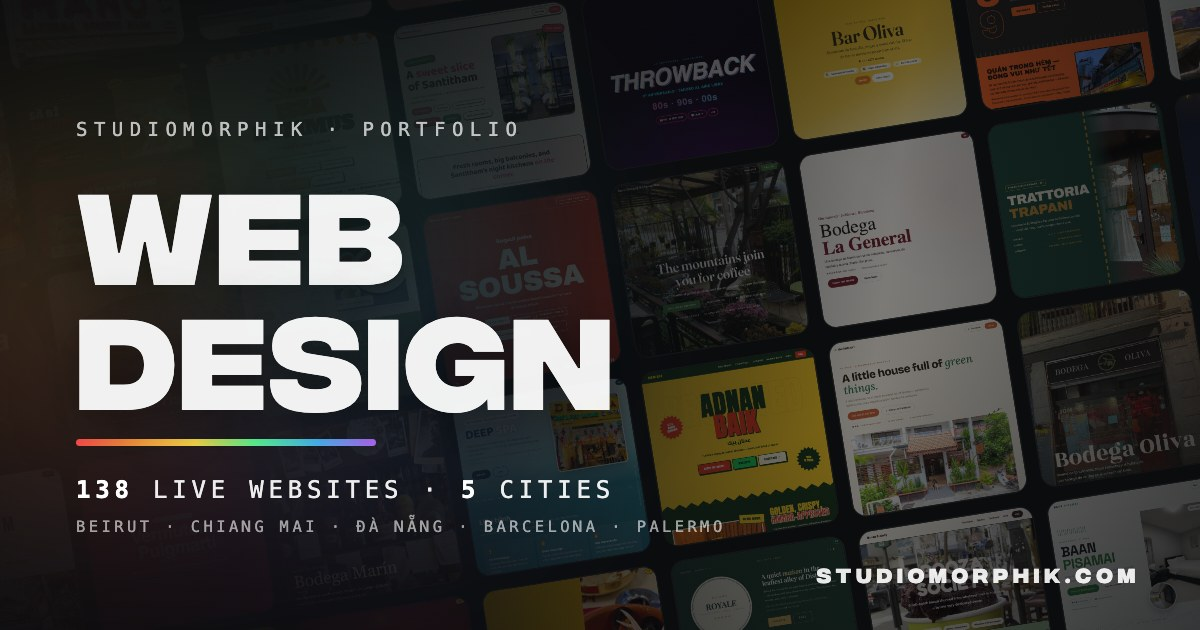
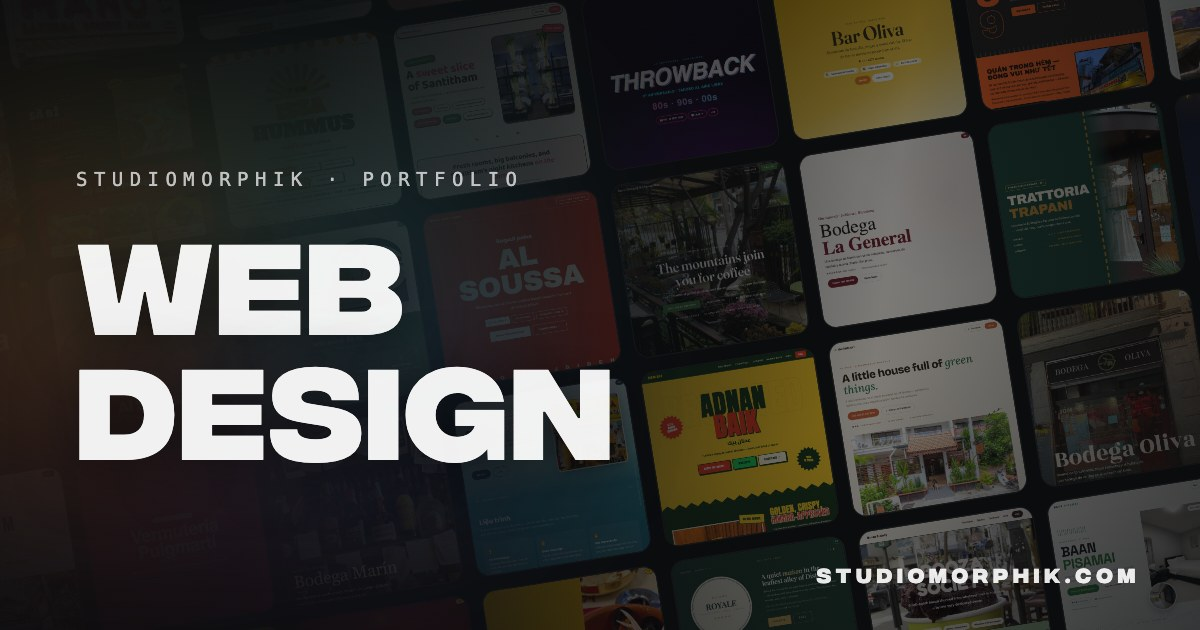
OG image: minimal version, no stats lines

diff --git a/web-design/og-src.html b/web-design/og-src.html
@@ -12,7 +12,7 @@ body{position:relative;font-family:'Montserrat',system-ui,-apple-system,'Segoe U
 .shade{position:absolute;inset:0;background:linear-gradient(97deg,rgba(11,12,14,.97) 24%,rgba(11,12,14,.82) 44%,rgba(11,12,14,.38) 72%,rgba(11,12,14,.62) 100%)}
 .vig{position:absolute;inset:0;background:radial-gradient(120% 90% at 30% 46%,transparent 40%,rgba(11,12,14,.55) 100%)}
 .glow{position:absolute;left:-80px;top:170px;width:560px;height:300px;background:conic-gradient(from 210deg,#ff4d4d,#ff9f40,#ffe14d,#5dff9b,#4dc3ff,#b96bff,#ff4d4d);filter:blur(120px);opacity:.24}
-.txt{position:absolute;left:76px;top:118px;z-index:3}
+.txt{position:absolute;left:76px;top:168px;z-index:3}
 .eyebrow{font-family:'JetBrains Mono',ui-monospace,'SF Mono',Menlo,monospace;font-size:19px;letter-spacing:.34em;color:rgba(255,255,255,.72)}
 h1{font-family:'Integral CF',sans-serif;font-size:128px;line-height:.98;letter-spacing:.015em;margin:22px 0 26px;text-shadow:0 10px 60px rgba(0,0,0,.6)}
 .bar{width:300px;height:7px;border-radius:99px;background:linear-gradient(90deg,#ff4d4d,#ff9f40,#ffe14d,#5dff9b,#4dc3ff,#b96bff)}
@@ -36,9 +36,6 @@ h1{font-family:'Integral CF',sans-serif;font-size:128px;line-height:.98;letter-s
 <div class="txt">
  <div class="eyebrow">STUDIOMORPHIK · PORTFOLIO</div>
  <h1>WEB<br>DESIGN</h1>
- <div class="bar"></div>
- <div class="stats"><b>138</b> LIVE WEBSITES · <b>5</b> CITIES</div>
- <div class="cities">BEIRUT · CHIANG MAI · ĐÀ NẴNG · BARCELONA · PALERMO</div>
 </div>
 <div class="mark">STUDIOMORPHIK.COM</div>
 </body>